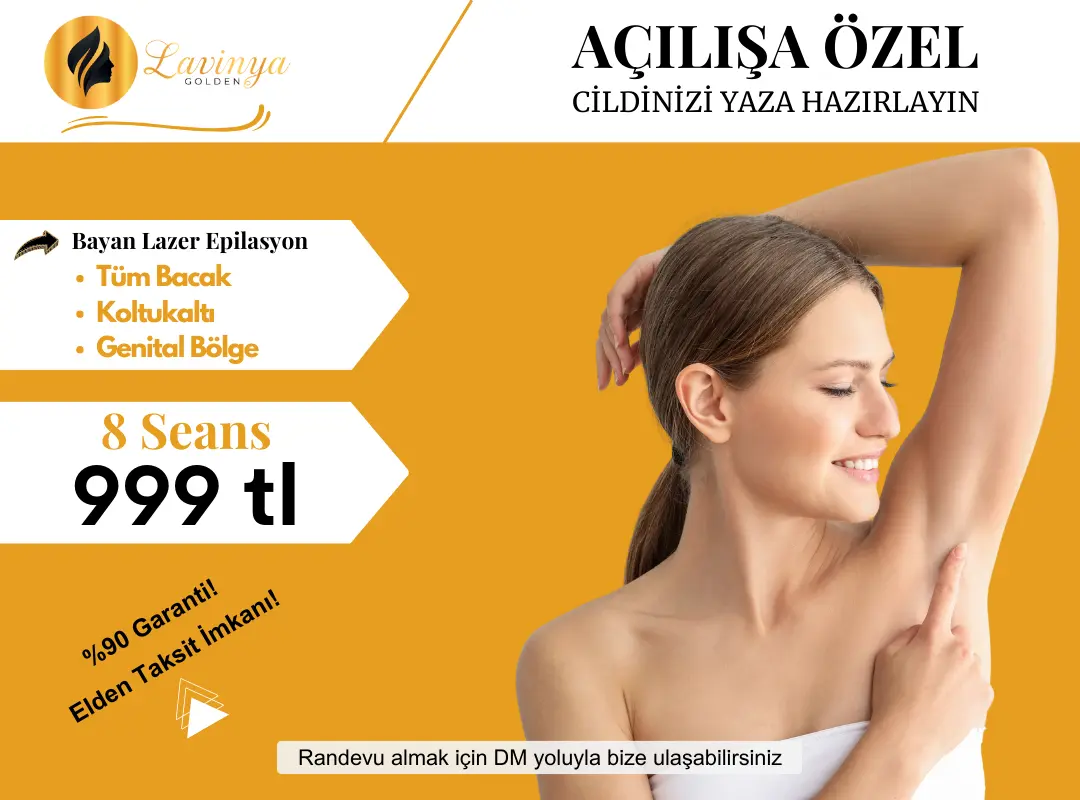
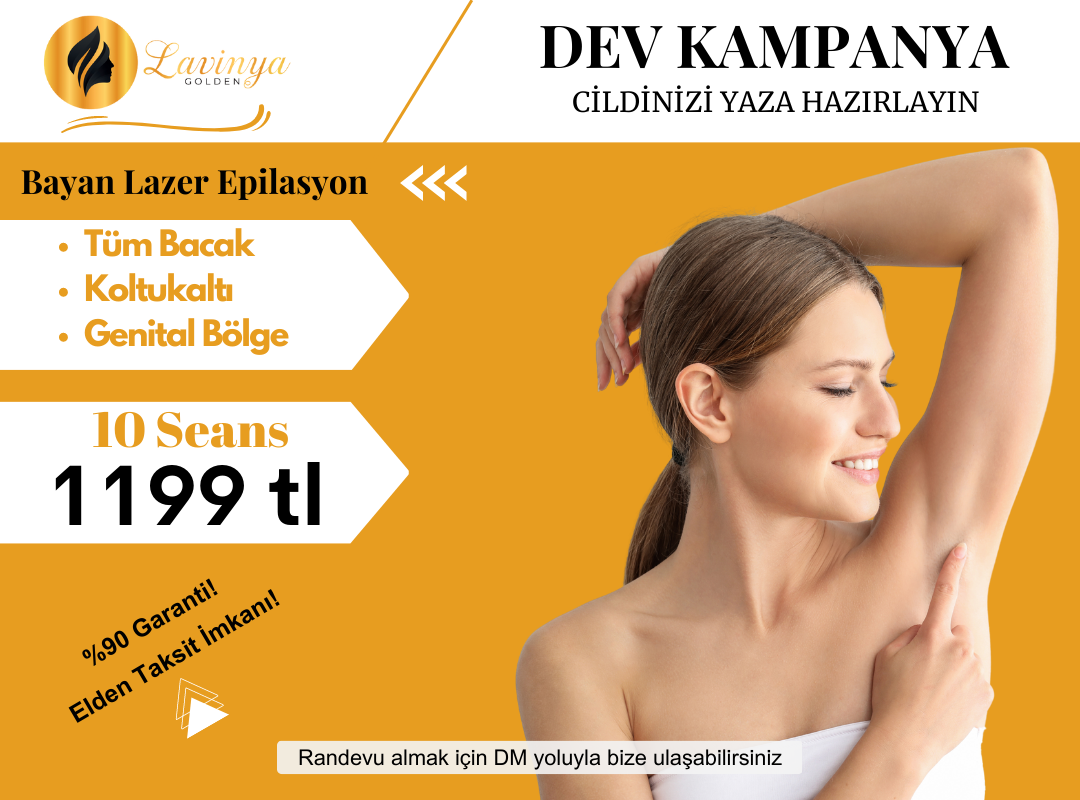
v1.1

diff --git a/src/components/klinik/Klinik.js b/src/components/klinik/Klinik.js
@@ -57,31 +57,31 @@ export default function Klinik() {
                  
                <KampComp
                     kampanyaResim={k1}
-                    kampanyaAd="https://wa.me/+905012560051?text=Merhaba%2C%20Bayanlar%20i%C3%A7in%20T%C3%BCm%20Bacak%2C%20Koltukalt%C4%B1%20ve%20Genital%20B%C3%B6lge%20Lazer%20Epilasyon%20(8%20Seans%20999%E2%82%BA)%20kampanyas%C4%B1%20hakk%C4%B1nda%20bilgi%20alabilir%20miyim%3F"
+                    kampanyaAd="https://wa.me/+905012560051?text=Merhaba%2C%20Bayanlar%20i%C3%A7in%20T%C3%BCm%20Bacak%2C%20Koltukalt%C4%B1%20ve%20Genital%20B%C3%B6lge%20Lazer%20Epilasyon%20(8%20Seans%201199%E2%82%BA)%20kampanyas%C4%B1%20hakk%C4%B1nda%20bilgi%20alabilir%20miyim%3F"
                 />
 
                 <KampComp
                     kampanyaResim={k2}
-                    kampanyaAd="https://wa.me/+905012560051?text=Merhaba%2C%20Bayanlar%20i%C3%A7in%20T%C3%BCm%20V%C3%BCcut%20Lazer%20Epilasyon%20(8%20Seans%201499%E2%82%BA)%20kampanyas%C4%B1%20hakk%C4%B1nda%20bilgi%20alabilir%20miyim%3F"
+                    kampanyaAd="https://wa.me/+905012560051?text=Merhaba%2C%20Bayanlar%20i%C3%A7in%20T%C3%BCm%20V%C3%BCcut%20Lazer%20Epilasyon%20(8%20Seans%201699%E2%82%BA)%20kampanyas%C4%B1%20hakk%C4%B1nda%20bilgi%20alabilir%20miyim%3F"
                 />
                 <KampComp
                     kampanyaResim={k3}
-                    kampanyaAd="https://wa.me/+905012560051?text=Merhaba%2C%20Baylar%20i%C3%A7in%20Ense%2C%20Boyun%20ve%20Yanak%20Lazer%20Epilasyon%20(12%20Seans%20599%E2%82%BA)%20kampanyas%C4%B1%20hakk%C4%B1nda%20bilgi%20alabilir%20miyim%3F"
+                    kampanyaAd="https://wa.me/+905012560051?text=Merhaba%2C%20Baylar%20i%C3%A7in%20Ense%2C%20Boyun%20ve%20Yanak%20Lazer%20Epilasyon%20(12%20Seans%20649%E2%82%BA)%20kampanyas%C4%B1%20hakk%C4%B1nda%20bilgi%20alabilir%20miyim%3F"
                 />
 
                 <KampComp
                     kampanyaResim={k4}
-                    kampanyaAd="https://wa.me/+905012560051?text=Merhaba%2C%20Baylar%20i%C3%A7in%20Kemer%20%C3%9Cst%C3%BC%20Lazer%20Epilasyon%20(8%20Seans%201499%E2%82%BA)%20kampanyas%C4%B1%20hakk%C4%B1nda%20bilgi%20alabilir%20miyim%3F"
+                    kampanyaAd="https://wa.me/+905012560051?text=Merhaba%2C%20Baylar%20i%C3%A7in%20Kemer%20%C3%9Cst%C3%BC%20Lazer%20Epilasyon%20(8%20Seans%201699%E2%82%BA)%20kampanyas%C4%B1%20hakk%C4%B1nda%20bilgi%20alabilir%20miyim%3F"
                 />
 
                 <KampComp
                     kampanyaResim={k5}
-                    kampanyaAd="https://wa.me/+905012560051?text=Merhaba%2C%20Hydrafacial%20Cilt%20Bak%C4%B1m%C4%B1%20(4%20Seans%20599%E2%82%BA)%20kampanyas%C4%B1%20hakk%C4%B1nda%20bilgi%20alabilir%20miyim%3F"
+                    kampanyaAd="https://wa.me/+905012560051?text=Merhaba%2C%20Hydrafacial%20Cilt%20Bak%C4%B1m%C4%B1%20(4%20Seans%20799%E2%82%BA)%20kampanyas%C4%B1%20hakk%C4%B1nda%20bilgi%20alabilir%20miyim%3F"
                 />
 
                 <KampComp
                     kampanyaResim={k6}
-                    kampanyaAd="https://wa.me/+905012560051?text=Merhaba%2C%20Kavitasyon%20B%C3%B6lgesel%20Zay%C4%B1flama%20(8%20Seans%20699%E2%82%BA)%20kampanyas%C4%B1%20hakk%C4%B1nda%20bilgi%20alabilir%20miyim%3F"
+                    kampanyaAd="https://wa.me/+905012560051?text=Merhaba%2C%20Kavitasyon%20B%C3%B6lgesel%20Zay%C4%B1flama%20(8%20Seans%20999%E2%82%BA)%20kampanyas%C4%B1%20hakk%C4%B1nda%20bilgi%20alabilir%20miyim%3F"
                 />
             </OwlCarousel>
         </div>    

diff --git a/src/components/footer/Foooter.js b/src/components/footer/Foooter.js
@@ -59,7 +59,7 @@ export default class Foooter extends Component {
 
           <div className="roof-location">
             <a
-              href="+https://goo.gl/maps/5jSu6Q26C5mcw39S8"
+              href="https://goo.gl/maps/5jSu6Q26C5mcw39S8"
               className="location_float"
               target="_blank"
               rel="noopener noreferrer"
